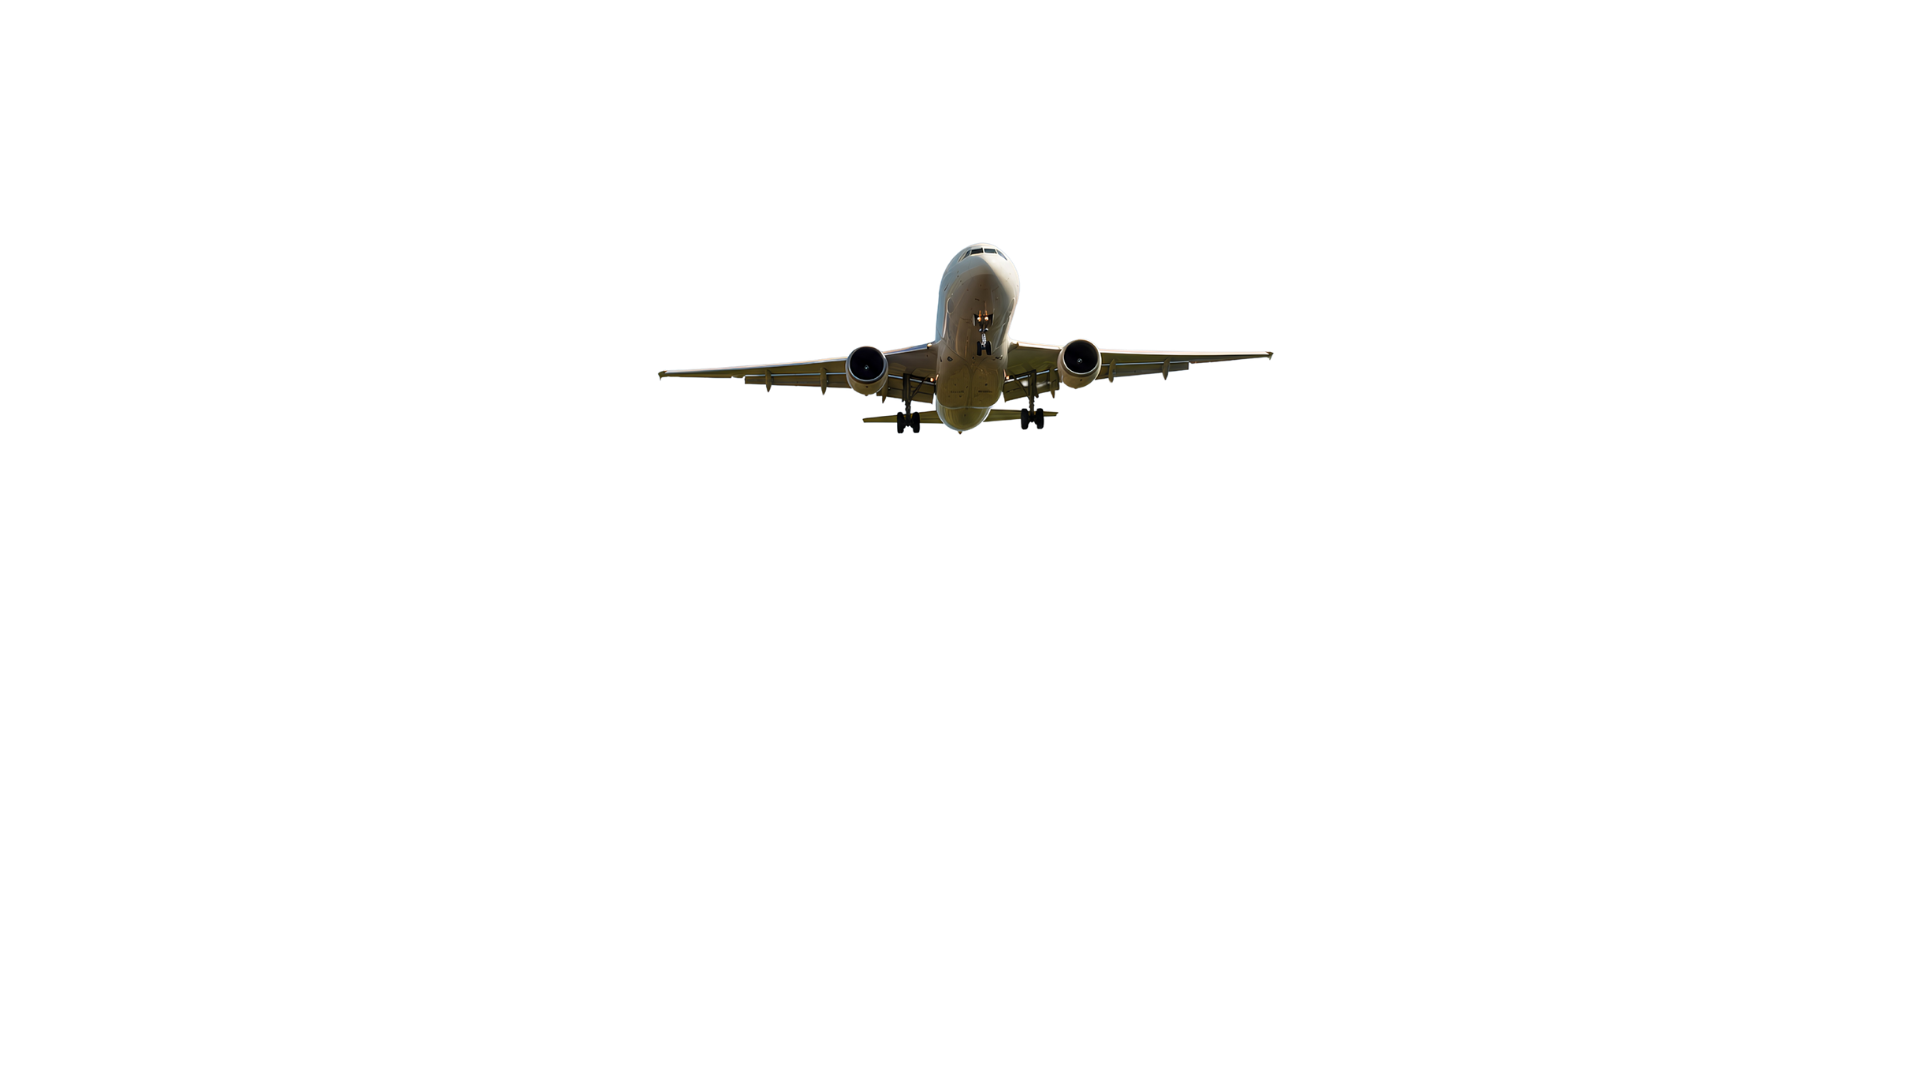
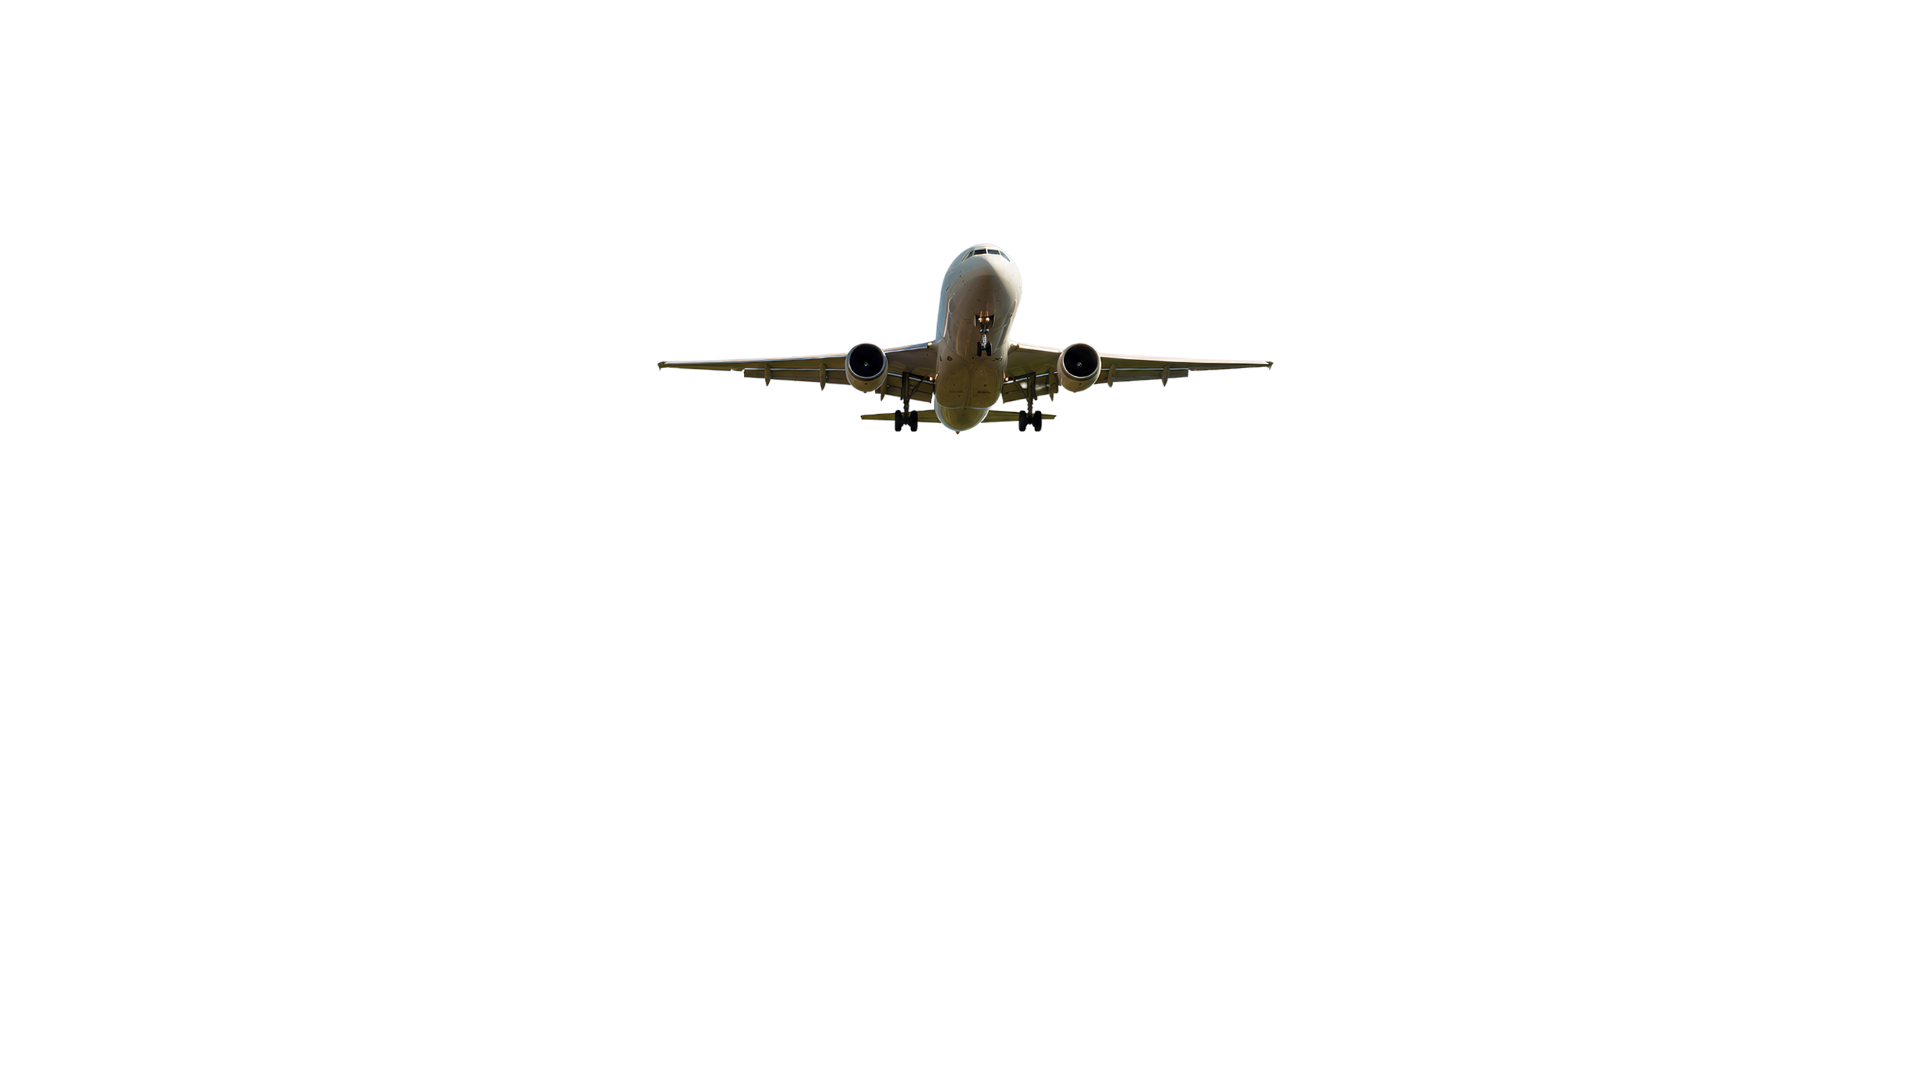
seo: otimiza metadados, cria sitemap/robots.txt e configura pixels de GTM e Meta

Changed region(s): [[0.3438, 0.275, 0.6562, 0.3972], [0.5, 0.2139, 0.5312, 0.2444]]

diff --git a/clientes/confins-do-mundo/site/index.html b/clientes/confins-do-mundo/site/index.html
@@ -8,12 +8,15 @@
 
   <!-- Favicon -->
   <link rel="icon" type="image/png" href="/logo.png">
+  
+  <!-- Canonical Link -->
+  <link rel="canonical" href="https://www.confinsdomundo.com.br/">
 
   <!-- SEO Meta Tags -->
   <meta name="description"
-    content="Planeje sua viagem com segurança, passagens aéreas sob medida e atendimento 100% humano. Especialistas em intercâmbio e pacotes personalizados.">
+    content="Planeje sua viagem com segurança, passagens aéreas sob medida e atendimento 100% humano. Especialistas em intercâmbio na Irlanda, seguros internacionais e pacotes de turismo personalizados.">
   <meta name="keywords"
-    content="passagens aéreas, agência de viagens, intercâmbio no exterior, confins do mundo, voos baratos, viagem sob medida">
+    content="passagens aéreas, passagens aéreas promocionais, passagens aéreas baratas, passagens para irlanda, intercâmbio na irlanda, assessoria de viagem, roteiros personalizados, agência de viagens porto alegre, agência de turismo rs, seguro viagem internacional, passagens aéreas estudantes, pacotes de viagens internacionais, assessoria consular, consultoria de viagem, passagens aéreas corporativas, confins do mundo viagens, agência de viagens">
   <meta name="author" content="Confins do Mundo Viagens">
 
   <!-- Open Graph / Facebook -->
@@ -21,8 +24,16 @@
   <meta property="og:url" content="https://www.confinsdomundo.com.br/">
   <meta property="og:title" content="Confins do Mundo Viagens | Passagens Aéreas e Roteiros Sob Medida">
   <meta property="og:description"
-    content="Planeje sua viagem com segurança, passagens aéreas sob medida e atendimento 100% humano.">
+    content="Planeje sua viagem com segurança, passagens aéreas sob medida, atendimento 100% humano e assessoria completa de intercâmbio.">
   <meta property="og:image" content="https://www.confinsdomundo.com.br/assets/og-image.jpg">
+
+  <!-- Twitter Cards -->
+  <meta name="twitter:card" content="summary_large_image">
+  <meta name="twitter:url" content="https://www.confinsdomundo.com.br/">
+  <meta name="twitter:title" content="Confins do Mundo Viagens | Passagens Aéreas e Roteiros Sob Medida">
+  <meta name="twitter:description"
+    content="Planeje sua viagem com segurança, passagens aéreas sob medida, atendimento 100% humano e assessoria completa de intercâmbio.">
+  <meta name="twitter:image" content="https://www.confinsdomundo.com.br/assets/og-image.jpg">
 
   <!-- Google Fonts -->
   <link rel="preconnect" href="https://fonts.googleapis.com">
@@ -36,9 +47,77 @@
 
   <!-- Stylesheet -->
   <link rel="stylesheet" href="/style.css">
+
+  <!-- Schema.org Structured Data (TravelAgency JSON-LD) -->
+  <script type="application/ld+json">
+  {
+    "@context": "https://schema.org",
+    "@type": "TravelAgency",
+    "name": "Confins do Mundo Viagens",
+    "image": "https://www.confinsdomundo.com.br/logo.png",
+    "@id": "https://www.confinsdomundo.com.br/#agency",
+    "url": "https://www.confinsdomundo.com.br/",
+    "telephone": "[phone redacted]",
+    "email": "[email redacted]",
+    "priceRange": "$$",
+    "address": {
+      "@type": "PostalAddress",
+      "streetAddress": "Rua Bento Gonçalves, 123",
+      "addressLocality": "Novo Hamburgo",
+      "addressRegion": "RS",
+      "postalCode": "93300-000",
+      "addressCountry": "BR"
+    },
+    "geo": {
+      "@type": "GeoCoordinates",
+      "latitude": -29.6842,
+      "longitude": -51.1192
+    },
+    "sameAs": [
+      "https://www.instagram.com/confinsdomundoviagens/",
+      "https://www.facebook.com/confinsdomundoviagens/"
+    ],
+    "areaServed": "BR",
+    "description": "Planeje sua viagem com segurança, passagens aéreas sob medida, assessoria para intercâmbios e atendimento 100% humano."
+  }
+  </script>
+
+  <!-- Google Tag Manager -->
+  <script>(function(w,d,s,l,i){w[l]=w[l]||[];w[l].push({'gtm.start':
+  new Date().getTime(),event:'gtm.js'});var f=d.getElementsByTagName(s)[0],
+  j=d.createElement(s),dl=l!='dataLayer'?'&l='+l:'';j.async=true;j.src=
+  'https://www.googletagmanager.com/gtm.js?id='+i+dl;f.parentNode.insertBefore(j,f);
+  })(window,document,'script','dataLayer','GTM-PLACEHOLDER');</script>
+  <!-- End Google Tag Manager -->
+
+  <!-- Meta Pixel Code -->
+  <script>
+  !function(f,b,e,v,n,t,s)
+  {if(f.fbq)return;n=f.fbq=function(){n.callMethod?
+  n.callMethod.apply(n,arguments):n.queue.push(arguments)};
+  if(!f._fbq)f._fbq=n;n.push=n;n.loaded=!0;n.version='2.0';
+  n.queue=[];t=b.createElement(e);t.async=!0;
+  t.src=v;s=b.getElementsByTagName(e)[0];
+  s.parentNode.insertBefore(t,s)}(window, document,'script',
+  'https://connect.facebook.net/en_US/fbevents.js');
+  fbq('init', 'META-PIXEL-PLACEHOLDER');
+  fbq('track', 'PageView');
+  </script>
+  <!-- End Meta Pixel Code -->
 </head>
 
 <body>
+
+  <!-- Google Tag Manager (noscript) -->
+  <noscript><iframe src="https://www.googletagmanager.com/ns.html?id=GTM-PLACEHOLDER"
+  height="0" width="0" style="display:none;visibility:hidden"></iframe></noscript>
+  <!-- End Google Tag Manager (noscript) -->
+
+  <!-- Meta Pixel (noscript) -->
+  <noscript><img height="1" width="1" style="display:none"
+  src="https://www.facebook.com/tr?id=META-PIXEL-PLACEHOLDER&ev=PageView&noscript=1"
+  /></noscript>
+  <!-- End Meta Pixel (noscript) -->
 
   <!-- Header / Navigation -->
   <header class="main-header" id="navbar">
@@ -182,8 +261,8 @@
         <span class="badge">Decole com Segurança</span>
         <h2>Segurança de ponta a ponta</h2>
         <p>Garantia de emissão, proteção de dados e suporte 24h em casos de cancelamento ou alteração.</p>
-        <a href="https://api.whatsapp.com/send/?phone=[phone redacted]&text=Ol%C3%A1%21+Gostaria+de+fazer+uma+cota%C3%A7%C3%A3o+de+passagem.&type=phone_number&app_absent=0"
-          target="_blank" rel="noopener noreferrer" class="btn-primary" id="btn-hero-explore">Solicitar Orçamento</a>
+        <a href="https://www.forms.confinsdomundo.com.br/solicitacao-de-orcamento" target="_blank"
+          rel="noopener noreferrer" class="btn-primary" id="btn-hero-explore">Solicitar Orçamento</a>
       </div>
     </div>
   </section>